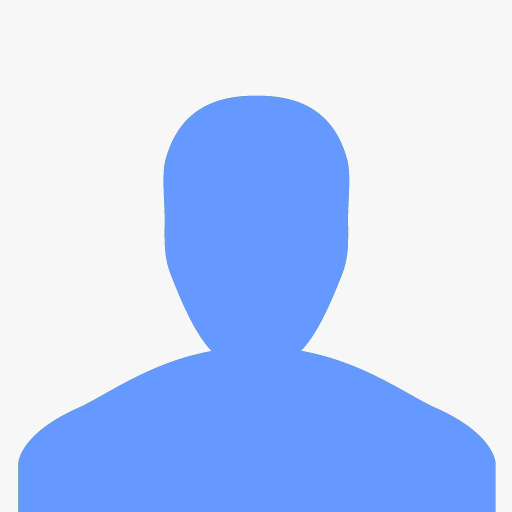
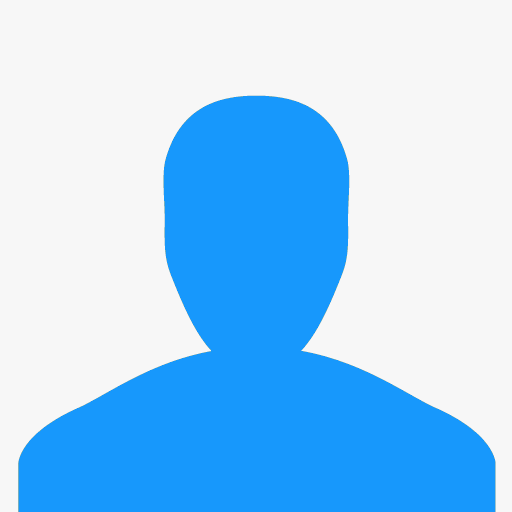
Update error pages

diff --git a/frontend/src/App.css b/frontend/src/App.css
@@ -32,7 +32,7 @@ h1 {
 .nav-user-logo {
   vertical-align: middle;
   margin-right: 10px;
-  border: 2px solid #69f;
+  border: 2px solid #1a98fc;
   width: 42px;
   height: 42px;
   border-radius: 25px;
@@ -66,7 +66,6 @@ h1 {
 .help-modal .ant-modal-close {
   background: white;
   border-radius: 50%;
-  padding: 8px;
   box-shadow: 0px 1px 3px #aaa;
   margin: 10px;
 }
@@ -81,6 +80,7 @@ h1 {
 
 .help-modal .ant-modal-body {
   padding: 0;
+  background-color: rgb(66, 133, 244);
 }
 
 .help-modal .help-frame {
@@ -89,6 +89,9 @@ h1 {
   min-height: 975px;
 }
 
+.ant-layout-header {
+  background: rgba(64, 64, 64, 0.96);
+}
 .ant-layout-header li a.active {
   color: rgb(88, 151, 249);
 }
@@ -114,4 +117,26 @@ h1 {
   height: 84px;
   position: absolute;
   bottom: 0;
+  text-align: center;
+}
+
+.error-page {
+  text-align: center;
+  width: 700px;
+  margin: 84px auto;
+  margin-bottom: 0;
+}
+.error-page h1 {
+  color: #1a98fc;
+}
+
+.error-page hr {
+  border: solid #ddd;
+  border-width: 1px 0 0;
+}
+.error-page p {
+  margin-top: 24px;
+  font-weight: 400;
+  font-size: 1rem;
+  line-height: 1.6;
 }

diff --git a/frontend/src/ApplicationLayout.js b/frontend/src/ApplicationLayout.js
@@ -7,9 +7,12 @@ import Layout from 'antd/lib/layout';
 import PrivateRoute from './PrivateRoute';
 import Home from './Home';
 import Privacy from './Privacy';
-import NoMatch from './NoMatch';
 import MortgageCalculator from './MortgageCalculator';
 import AnnualBudget from './AnnualBudget';
+
+// Error Routes
+import NoMatch from './NoMatch';
+import Maintenance from './Maintenance';
 
 class ApplicationLayout extends Component {
   render() {
@@ -31,6 +34,7 @@ class ApplicationLayout extends Component {
                       path="/annual-budgets/:year"
                       component={AnnualBudget}
                     />
+                    <Route path="/maintenance" component={Maintenance} />
                     <Route component={NoMatch} />
                   </Switch>
                 </div>

diff --git a/frontend/src/Maintenance.js b/frontend/src/Maintenance.js
@@ -1,21 +1,21 @@
 import React, {Component} from 'react';
 import {title, scrollTop} from './window';
 
-class NoMatch extends Component {
+class Maintenance extends Component {
   componentDidMount() {
-    title('404 Not Found');
+    title('503 Maintenance');
     scrollTop();
   }
 
   render() {
     return (
       <div className="error-page">
-        <h1>The page you were looking for doesn't exist.</h1>
+        <h1>We are performing scheduled maintenance right now.</h1>
         <hr />
-        <p>You may have mistyped the address or the page may have moved.</p>
+        <p>We should be done shortly.</p>
       </div>
     );
   }
 }
 
-export default NoMatch;
+export default Maintenance;

diff --git a/frontend/src/SignIn.js b/frontend/src/SignIn.js
@@ -10,6 +10,7 @@ import Col from 'antd/lib/col';
 
 import {SignInRequest} from 'api';
 import {SetAuthenticationToken, SetCurrentUser} from 'authentication';
+import {notice} from './window';
 
 const TabPane = Tabs.TabPane;
 const FormItem = Form.Item;
@@ -60,7 +61,7 @@ class SignInFields extends Component {
       const resp = await SignInRequest(values);
 
       if (resp && resp.ok) {
-        window.notice('You are now signed in');
+        notice('You are now signed in');
         SetAuthenticationToken(resp.token);
         SetCurrentUser(resp.user);
         this.props.resetSignIn();

diff --git a/frontend/src/Footer.js b/frontend/src/Footer.js
@@ -19,7 +19,7 @@ export default class Footer extends Component {
 
   render() {
     return (
-      <Layout.Footer style={{textAlign: 'center'}}>
+      <Layout.Footer>
         Budgetal © 2013-{new Date().getFullYear()} All rights reserved
         <p>
           <Link to="/privacy">Privacy</Link> |{' '}
